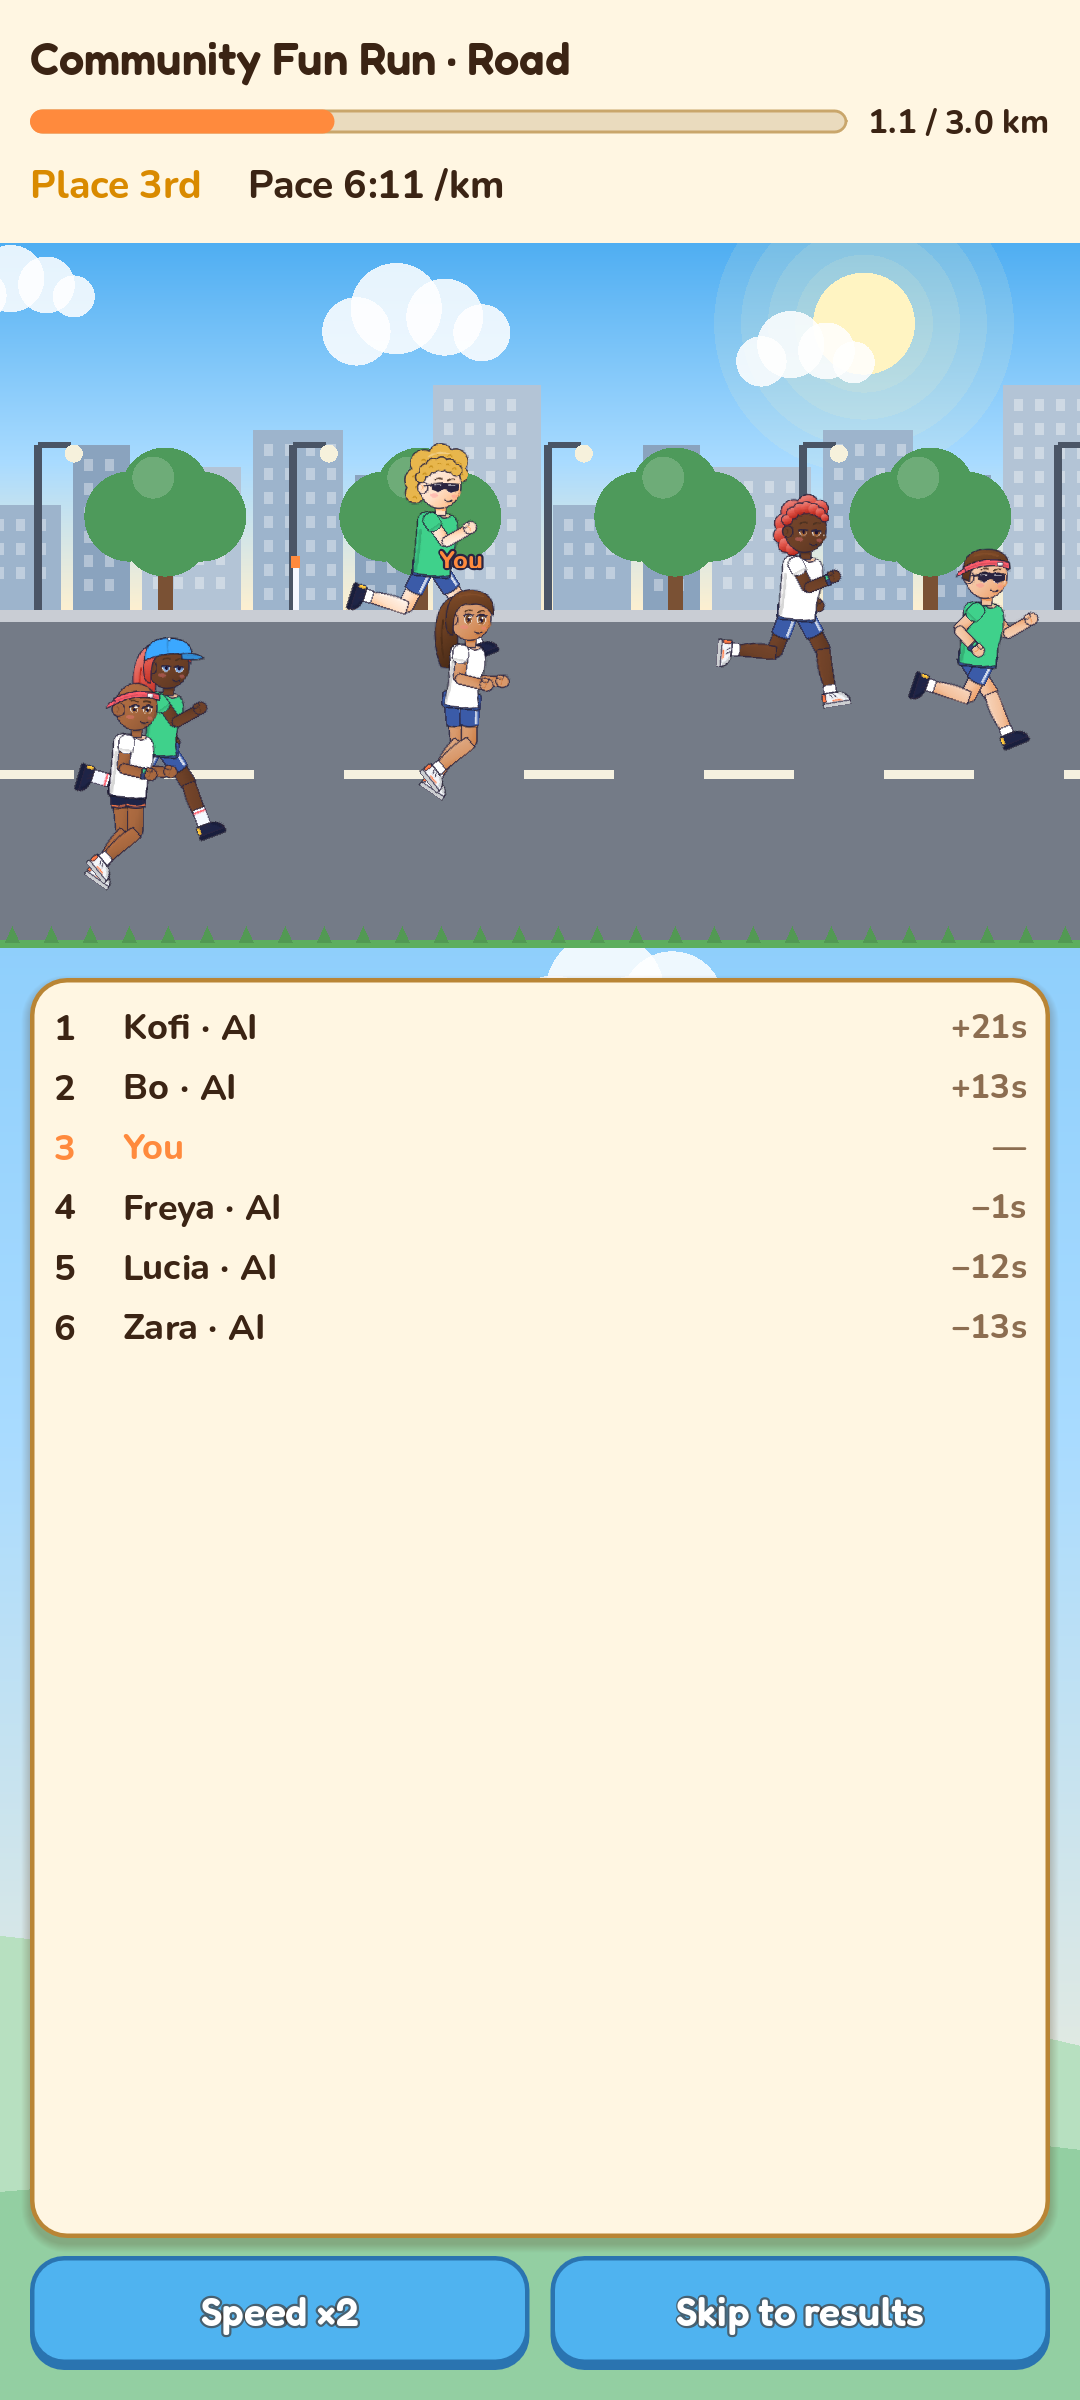
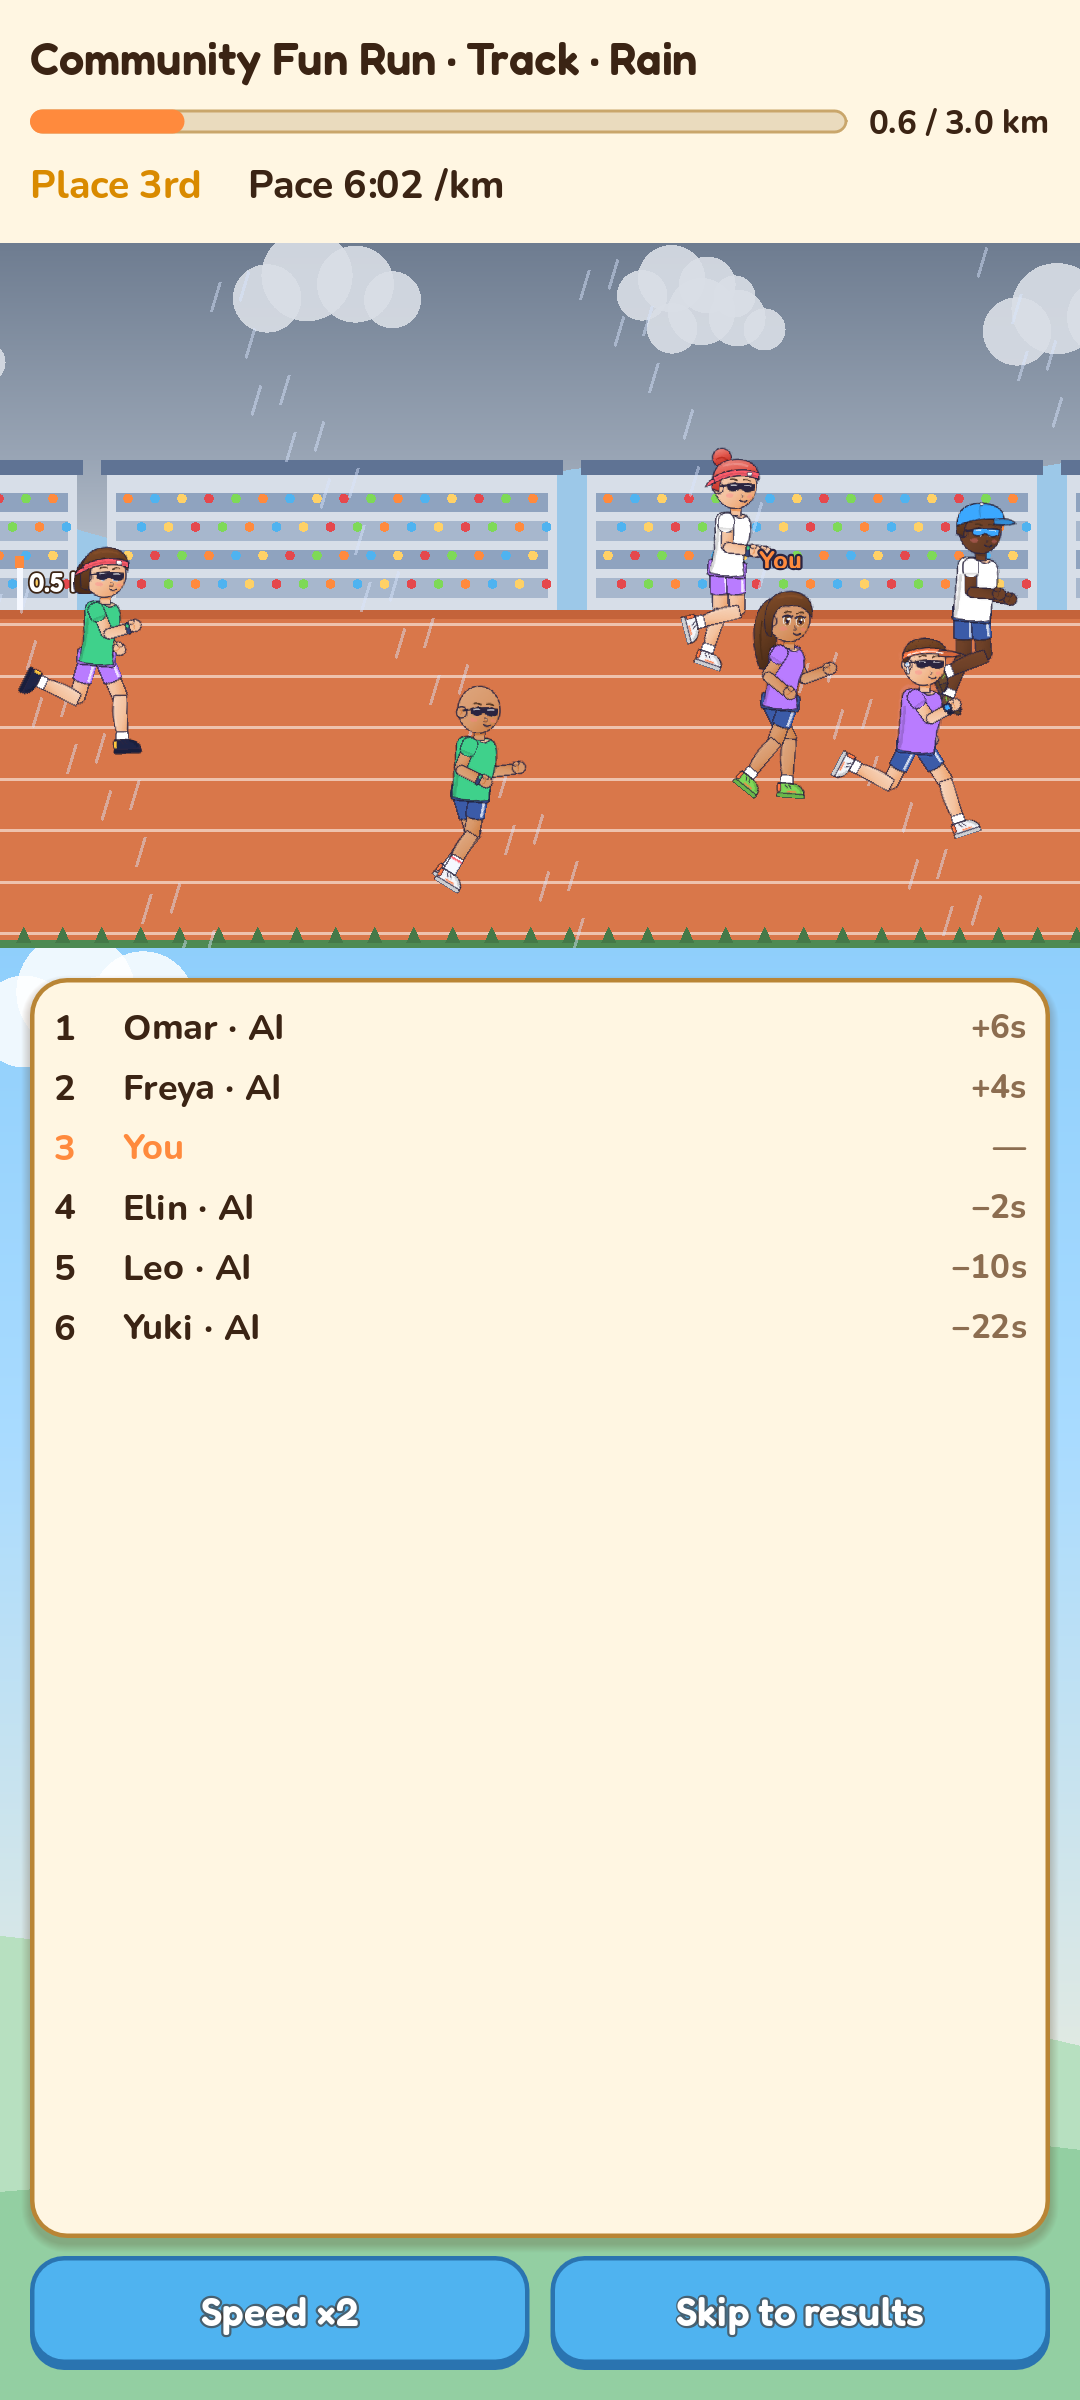
updated release page for Runling 0.9.0 LJT

diff --git a/README.md b/README.md
@@ -5,13 +5,13 @@ looks like you, feed them, train them and race them against other runners.
 The more you walk in real life, the stronger your runner gets.
 
 **[Download the latest version (Google Drive)](https://drive.google.com/drive/folders/1OKRJil2Vq85TlMJgisvNVxiQkPWyds1h?usp=sharing)**
-· Latest: **0.8.1** (September 28, 2026) · Android 8.0 or newer, 64-bit phone
+· Latest: **0.9.0** (September 28, 2026) · Android 8.0 or newer, 64-bit phone
 · [Runling on the Tabi Studio website](https://lextabi.github.io/tabistudio/runling/)
 
 <p>
   <img src="screenshots/home.png" alt="Your runner at home" width="200">
-  <img src="screenshots/races.png" alt="The Daily Event and race list" width="200">
-  <img src="screenshots/race.png" alt="A race in progress" width="200">
+  <img src="screenshots/races.png" alt="The Daily Event, weather and race list" width="200">
+  <img src="screenshots/race.png" alt="A race in the rain" width="200">
   <img src="screenshots/bibs.png" alt="Race bibs with your stats per distance" width="200">
   <img src="screenshots/shop.png" alt="Gear shop" width="200">
 </p>
@@ -27,8 +27,8 @@ The more you walk in real life, the stronger your runner gets.
 | **Real steps** | Your daily steps (from Health Connect) set your runner's Fitness, the limit for every stat, and give energy, coins and XP |
 | **Care** | Keep your runner fed and hydrated. Tap water and a plain meal are always free, and healthy meals make races faster |
 | **Training** | Raise Speed, Stamina, Strength, Luck and Charisma |
-| **Races** | From the free Community Fun Run up to the Marathon, against AI runners of your level. Road, track, trail, rain and mud each race differently |
-| **Daily Event** | Once a day, race everyone who registers (AI runners fill the empty places). Bigger prizes, gear for the podium, and gold, silver and bronze medals |
+| **Races** | From the free Community Fun Run up to the Marathon, against AI runners of your level. Each day brings a new ground (track, road, trail, gravel, mud) and every race rolls its own weather: rain favors Luck and Strength, heat favors Stamina |
+| **Daily Event** | Once a day, race everyone who registers (AI runners fill the empty places). Every day has its own name, like *Harbor Lights 10K*, and never repeats for 100 days. Bigger prizes, gear for the podium, and gold, silver and bronze medals with the Event's name and date |
 | **Medals and race bibs** | Your Event medals hang on the medal stand at home (tap it to see them all). Each distance has a race bib with your races, podiums, personal best and pace |
 | **Jobs and coins** | Part-time jobs (barista, delivery) and race prizes pay for food, gear and furniture |
 | **Gear and looks** | Shoes, tops, watches, headphones and more, with rarity glows, outfit sets and dyes. New gear goes on as soon as you buy it |

diff --git a/CHANGELOG.md b/CHANGELOG.md
@@ -1,5 +1,29 @@
 # Changelog
 
+## 0.9.0 (September 28, 2026)
+
+Download: `runling_0.9.0.apk` from the [Google Drive folder](https://drive.google.com/drive/folders/1OKRJil2Vq85TlMJgisvNVxiQkPWyds1h?usp=sharing)
[1 lines of base64/hex data omitted]
+
+Installs over 0.8.x; your runner and progress stay. **Please update:** the races changed on the
+server, so older versions show the wrong conditions.
+
+**New: weather**
+- Every race now rolls its own weather when it starts, the same for everyone in it:
+  - **Rain** (1 in 4 races): slippery and a bit unpredictable. Luck (speed bursts) and
+    Strength (grip) help.
+  - **Heat** (about 1 in 7): runners tire sooner. Stamina helps.
+  - Clear the rest of the time.
+- The ground (track, road, trail, gravel, mud) still changes once a day and is shown on the
+  Races tab. Weather comes on top, so rain on a muddy trail is the toughest race there is.
+- The race title and scenery show the weather: dark skies and rain, or a hot orange sky.
+
+**New: named Events**
+- Every day's Event has its own name, like **Harbor Lights 10K** or **Pine Ridge Marathon**,
+  and the same name never comes back for 100 days.
+- Podium medals carry the name and the date, so each one is a one-of-a-kind keepsake.
+- After registration closes, the Races tab shows tomorrow's Event.
+
 ## 0.8.1 (September 28, 2026)
 
 Download: `runling_0.8.1.apk` from the [Google Drive folder](https://drive.google.com/drive/folders/1OKRJil2Vq85TlMJgisvNVxiQkPWyds1h?usp=sharing)
